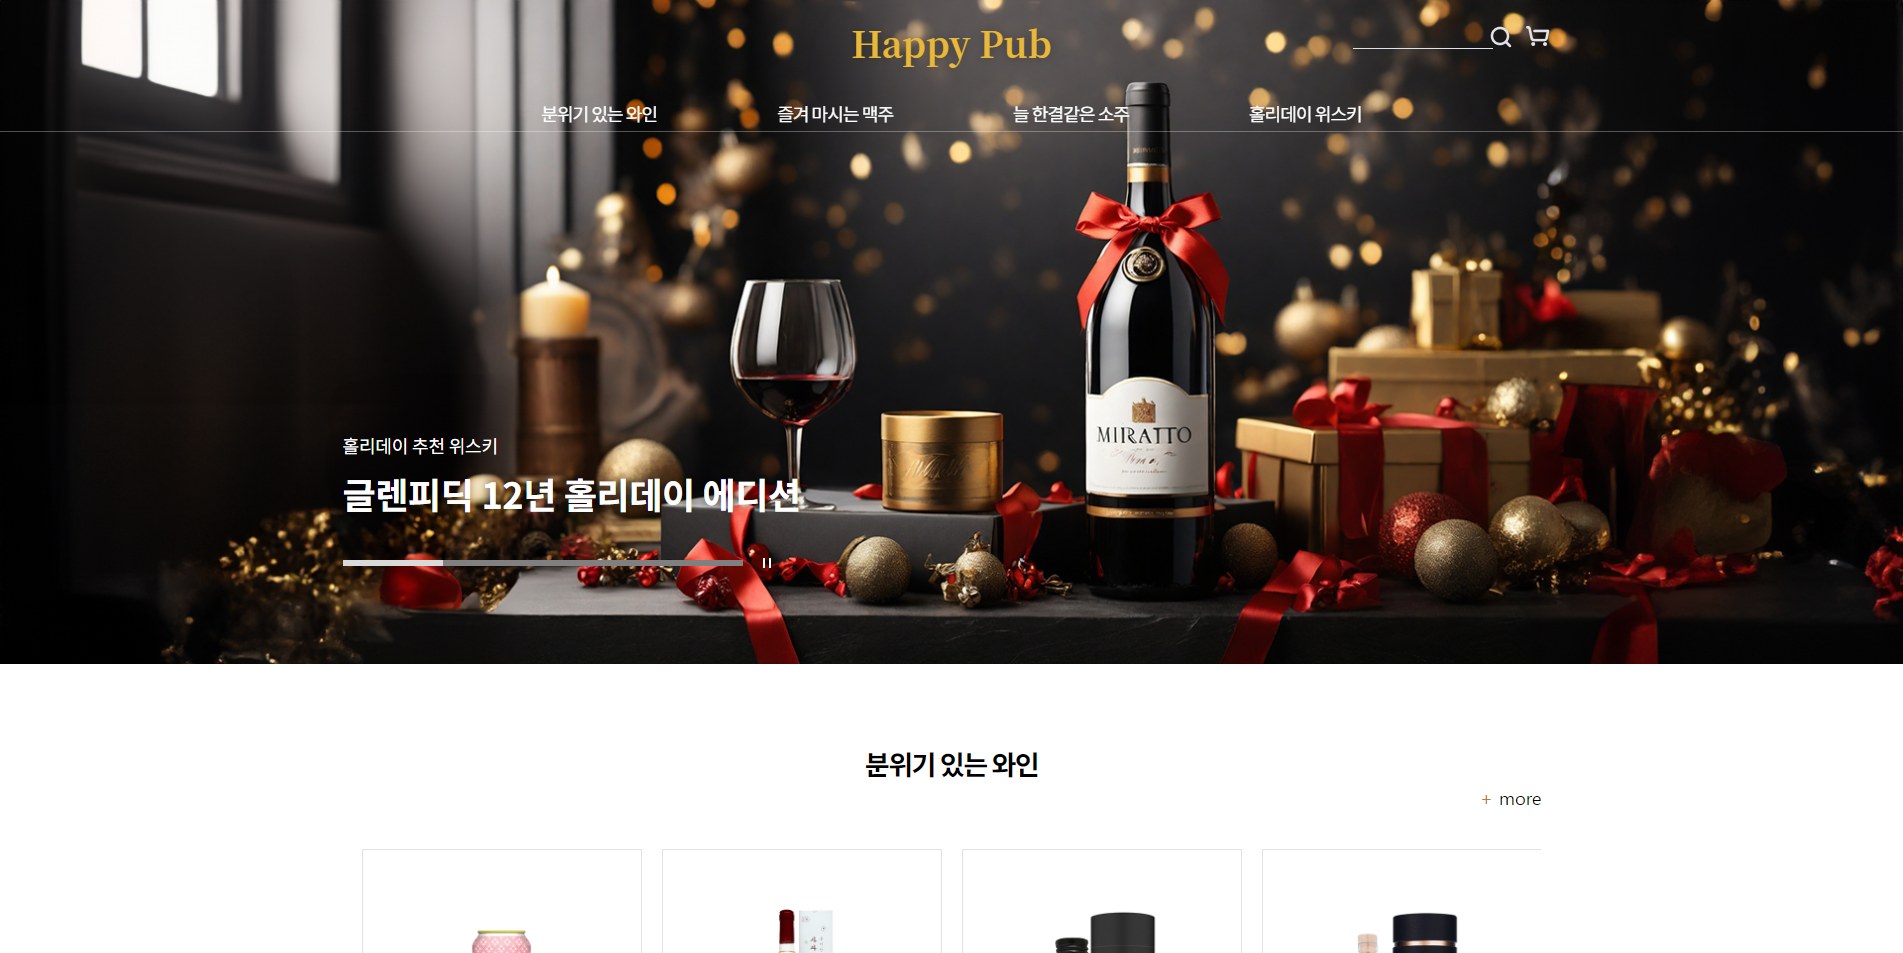
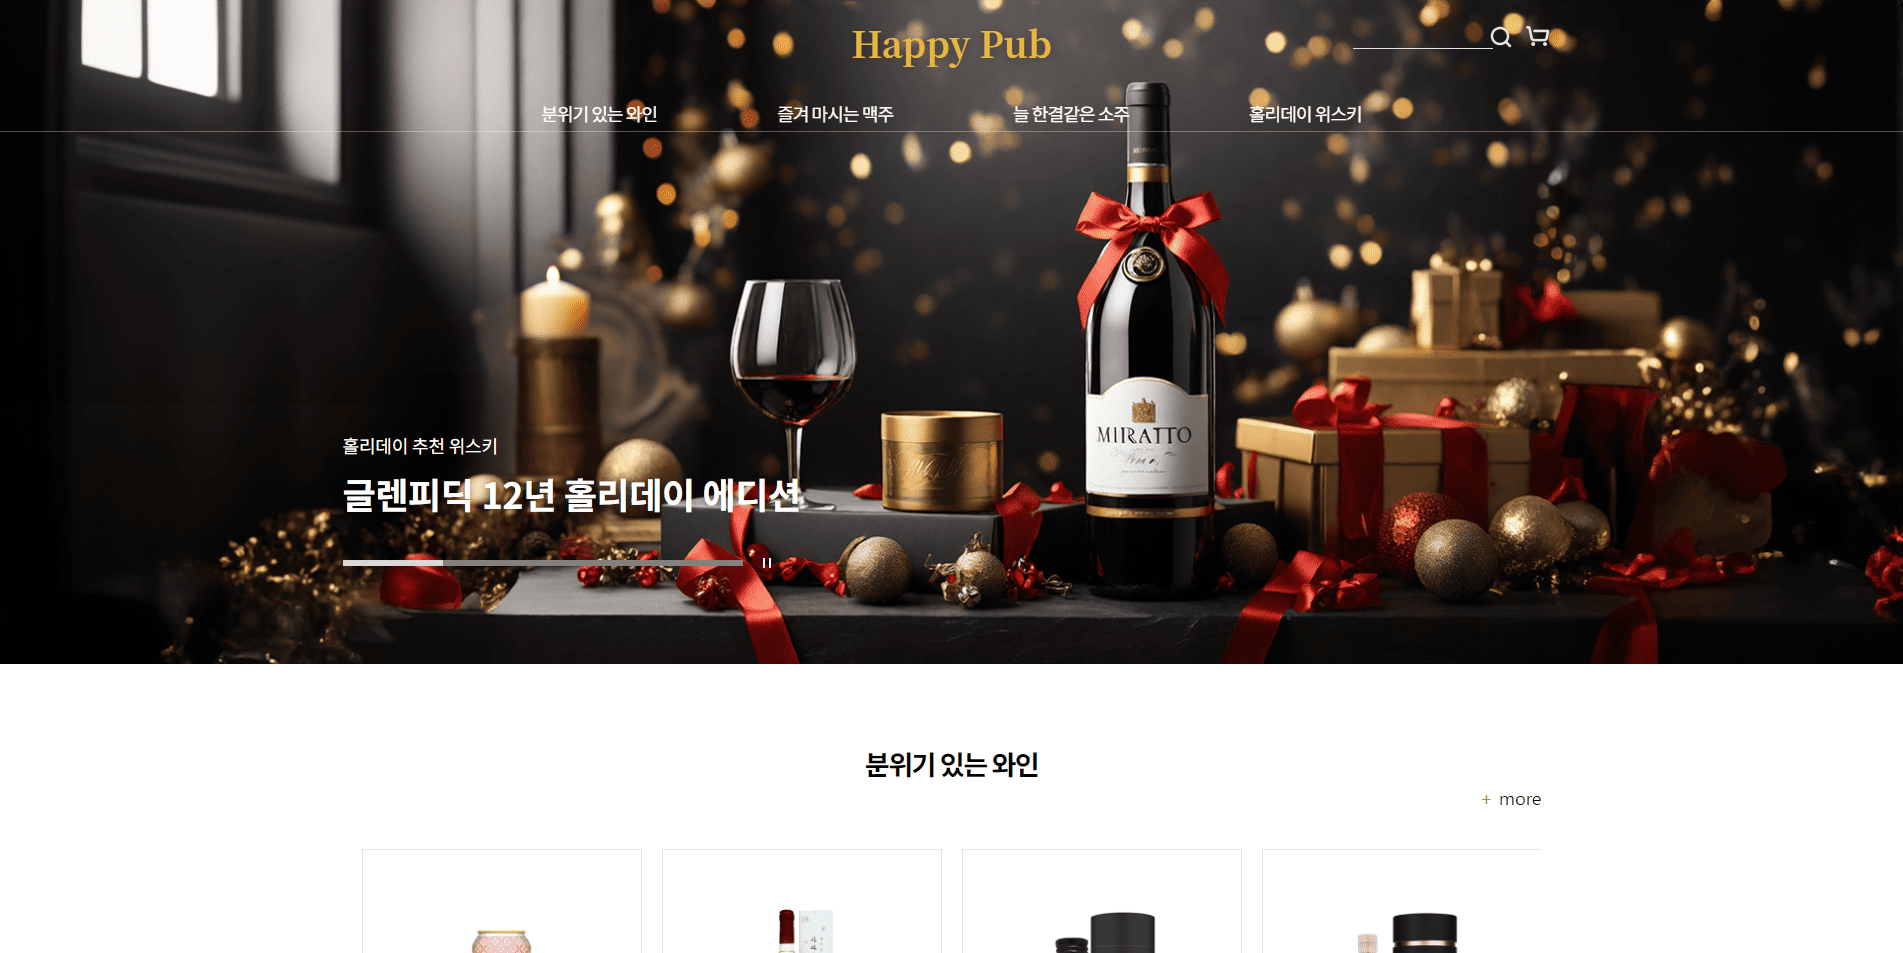
이미지 파일 압축

diff --git a/src/components/AboutContent.tsx b/src/components/AboutContent.tsx
@@ -59,9 +59,9 @@ function AboutContent() {
                         <h3>안녕하세요!<br />깔끔한 코드를 고민하고 추구하는 <span className='color'>프론트엔드 개발자 손하늘</span>입니다.</h3>
                         <ul>
                             <li>#근면성실한_ISTJ</li>
-                            <li>#변수이름_하나하나_고심</li>
-                            <li>#컴포넌트재사용?_완전가능</li>
-                            <li>#커뮤니케이션_좋아용</li>
+                            <li>#변수이름_하나하나_신중하게</li>
+                            <li>#고민_또_고민</li>
+                            <li>#커뮤니케이션_좋아용👍</li>
                         </ul>
                     </div>
                 </div>
